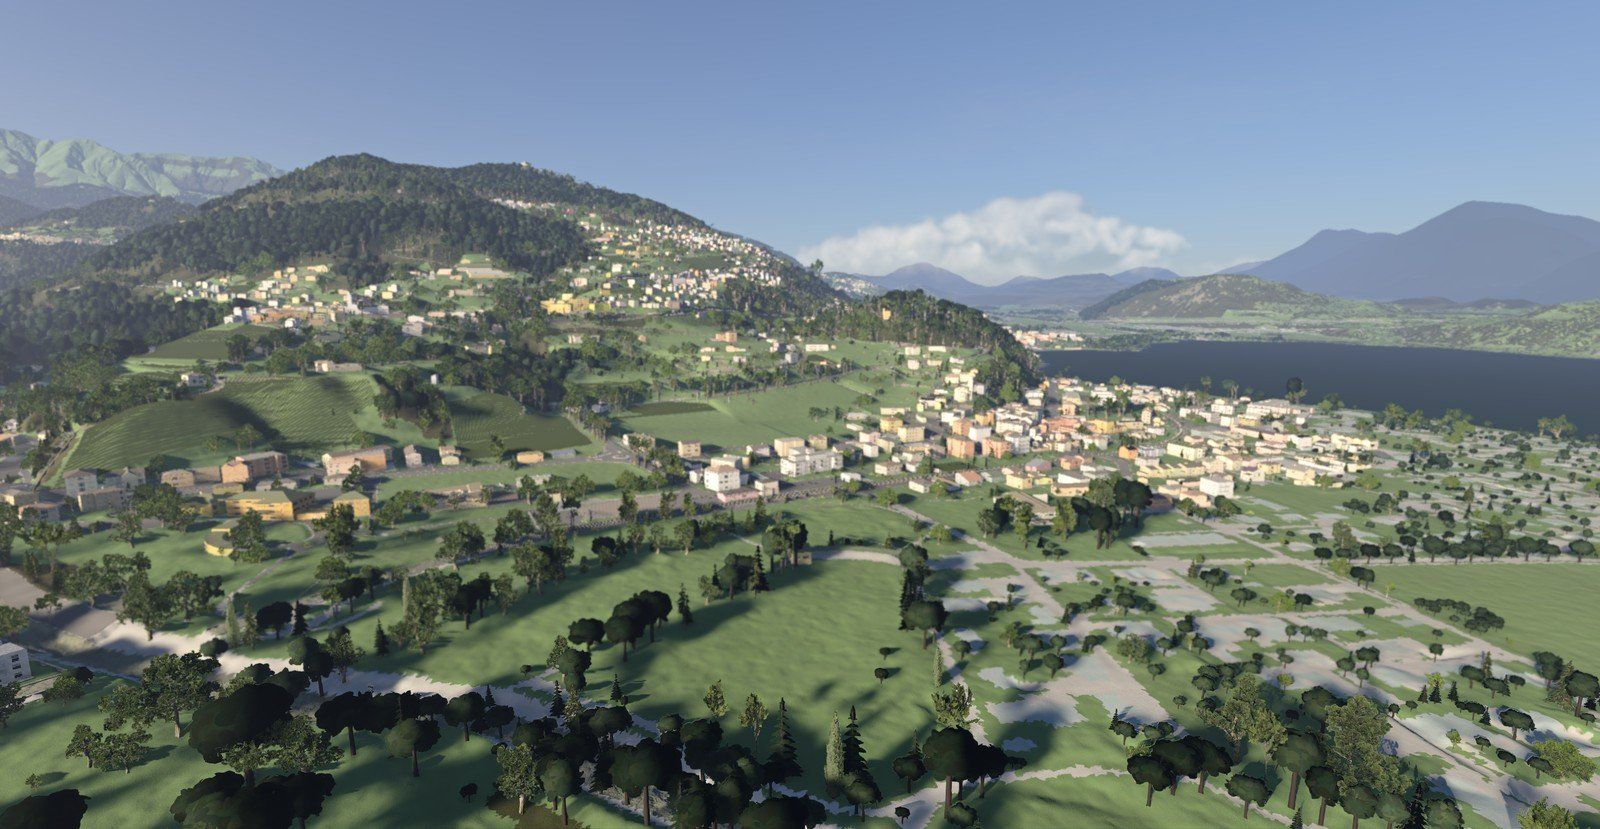
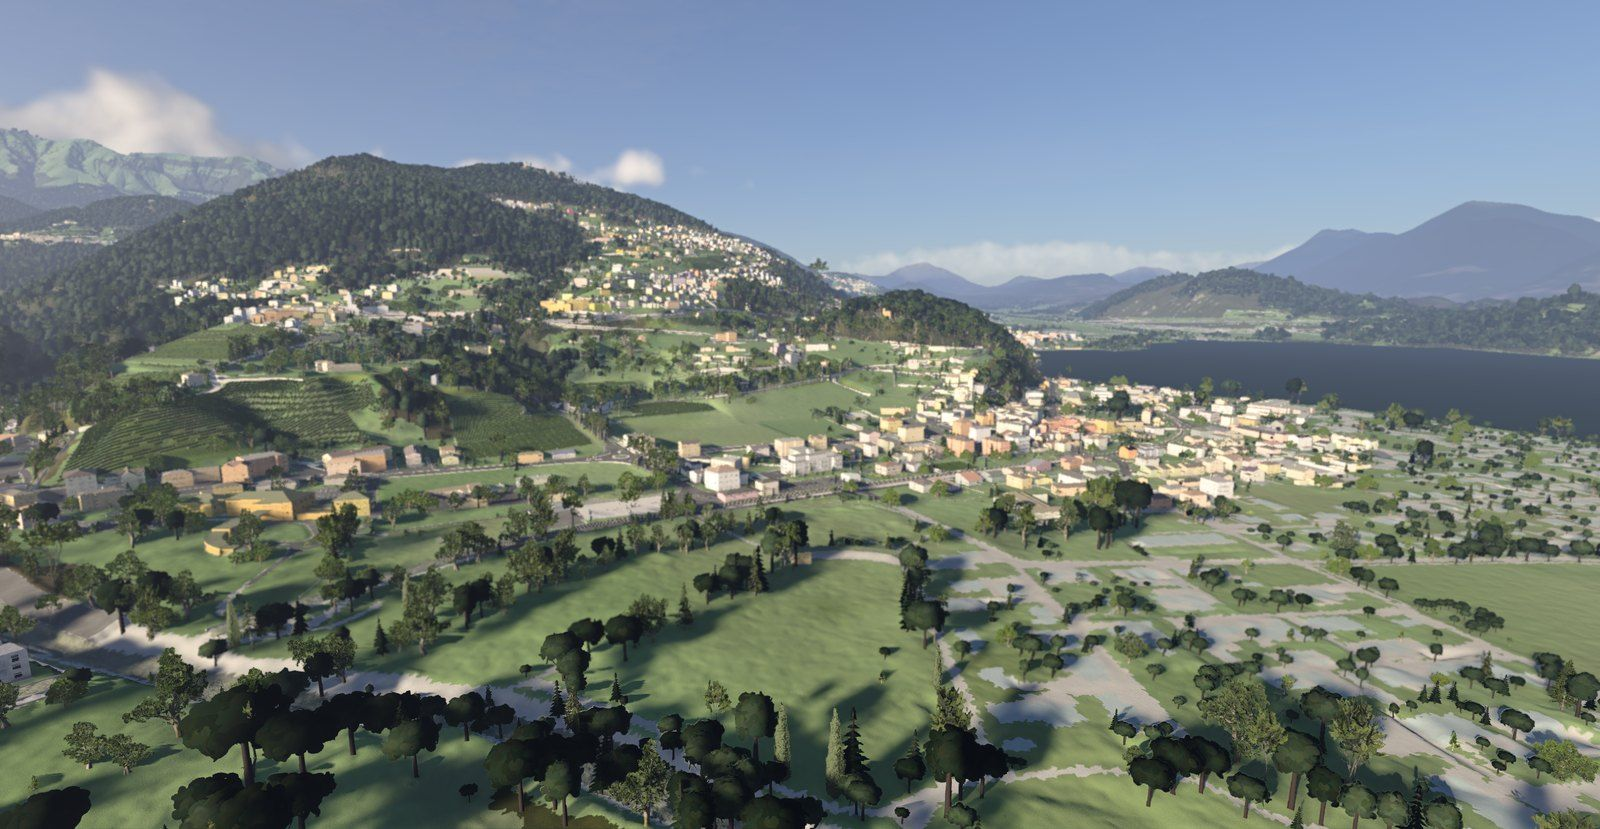
Website: v3.0 with its in-game screenshots
Download button and install steps for magliaso_pura_v3.0.zip (1.04 GB), a
New in v3.0 section, updated numbers (trees, villages, markings), memory and
frame rate from the v3.0 in-game test, and a gallery of the 24 v3.0
screenshots (make_images.py now copies those; the older pictures are gone).

Claude-Session: https://claude.ai/code/session_019WKaQKZ9bSLiQmuum6BCvJ

diff --git a/web/index.html b/web/index.html
@@ -7,7 +7,7 @@
 <meta name="description" content="A free BeamNG.drive map of 56 km² of the Malcantone, Canton Ticino: every real road, trail and building between Lake Lugano and the Italian border, built from Swiss survey data.">
 <meta property="og:title" content="Malcantone for BeamNG.drive">
 <meta property="og:description" content="56 km² of Canton Ticino at 1:1, built from swisstopo data. Free download.">
-<meta property="og:image" content="https://wintrymichi.ch/img/overview-novaggio-miglieglia-malcantone.jpg">
+<meta property="og:image" content="https://wintrymichi.ch/img/overview-novaggio-miglieglia.jpg">
 <meta property="og:url" content="https://wintrymichi.ch/">
 <link rel="canonical" href="https://wintrymichi.ch/">
 <link rel="preconnect" href="https://fonts.googleapis.com">
@@ -21,6 +21,7 @@
 <header class="bar">
   <a class="mark" href="#top">Malcantone <span>for BeamNG.drive</span></a>
   <nav>
+    <a href="#new">New in v3.0</a>
     <a href="#map">Map</a>
     <a href="#drives">Drives</a>
     <a href="#gallery">Pictures</a>
@@ -32,16 +33,36 @@
 <main id="top">
 
 <section class="hero">
-  <img src="img/overview-novaggio-miglieglia-malcantone.jpg" alt="In game: Novaggio, Miglieglia and the Alto Malcantone from the air" fetchpriority="high">
+  <img src="img/overview-novaggio-miglieglia.jpg" alt="In game: Novaggio, Miglieglia and the Alto Malcantone from the air" fetchpriority="high">
   <div class="hero-text">
     <h1>Every road in the Malcantone, at 1:1.</h1>
     <p>A free map for BeamNG.drive: 56 km² of Canton Ticino between Lake Lugano and the Italian border. Built from Swiss survey data, not modelled by hand.</p>
     <div class="actions">
-      <a class="btn primary" href="https://github.com/wintrymichi/magliasinaNG/releases/latest">Download v2.8 <small>zip, 514 MB</small></a>
+      <a class="btn primary" href="https://github.com/wintrymichi/magliasinaNG/releases/latest">Download v3.0 <small>zip, 1.04 GB</small></a>
       <a class="btn" href="https://github.com/wintrymichi/magliasinaNG">Source on GitHub</a>
     </div>
   </div>
-  <p class="hero-cap">Novaggio, Miglieglia and the Alto Malcantone. In-game screenshot of v2.8, BeamNG.drive 0.39.</p>
+  <p class="hero-cap">Novaggio, Miglieglia and the Alto Malcantone. In-game screenshot of v3.0, BeamNG.drive 0.39.4.</p>
+</section>
+
+<section id="new" class="making wrap">
+  <h2>New in v3.0</h2>
+  <div class="cols">
+    <div class="intro">
+      <p>Same area, roads and buildings as v2.8, polished up close and from afar. It now uses the game's own materials, and the villages are lived in.</p>
+      <p class="note">Released 17 October 2026 and tested in the game: about 80 s to load with a warm cache, 10.3 GB of memory at its peak, 65 to 138 fps at 13 fixed places at 2560 × 1440, Ultra, on an RTX 4070.</p>
+    </div>
+    <div class="steps">
+      <p><strong>Trees, not shrubs.</strong> Every tree takes the model closest to its real height, and the woods outside the survey are planted from ESA WorldCover: about 330,000 more trees, so the mountains around are forest up to the top.</p>
+      <p><strong>The game's own look.</strong> Asphalt, walls, parapets and cobbles from the game's Italy level, with tyre tracks in every lane, patches, cracked stretches and dusty edges. The ground takes its colour from the aerial photo.</p>
+      <p><strong>Smooth curves.</strong> Roads, pavements and walls follow curves instead of straight pieces, and steep banks are a smooth skin over the terrain.</p>
+      <p><strong>Petrol stations you can use.</strong> 8 stations with canopy, pumps and price totem, registered as the game's gas stations: stop at a pump and refuel.</p>
+      <p><strong>Parked cars.</strong> 11,069 parking spots with white Swiss bays, where the game's traffic puts its parked cars.</p>
+      <p><strong>Villages lived in.</strong> Shop fronts with signs and awnings, bus shelters, about 13,000 props of street life, flower boxes and woodpiles, vines on their wires in 475 vineyards.</p>
+      <p><strong>Swiss road paint.</strong> Markings laid by the Swiss standard from the road geometry, give-way lines at every roundabout, raised traffic islands and direction signs at the exits.</p>
+    </div>
+  </div>
+  <p class="more"><a href="https://github.com/wintrymichi/magliasinaNG/blob/main/beamng/RELEASE_v3.0.md">Full release notes</a> · <a href="https://github.com/wintrymichi/magliasinaNG/blob/main/beamng/verifica/v3.0/ingame_test_report.md">In-game test</a></p>
 </section>
 
 <section id="map" class="map-sec wrap">
@@ -55,9 +76,10 @@
       <div><dt>Roads</dt><dd>228 km, 167 bridges</dd></div>
       <div><dt>Trails and tracks</dt><dd>337 km</dd></div>
       <div><dt>Buildings</dt><dd>12,792</dd></div>
-      <div><dt>Trees</dt><dd>161,000 near the roads, 201,634 on far slopes</dd></div>
+      <div><dt>Trees</dt><dd>161,000 near the roads, about 530,000 on far slopes and the mountains around</dd></div>
       <div><dt>Road signs</dt><dd>286 Swiss signs, plus STOP and give-way</dd></div>
-      <div><dt>Markings</dt><dd>4,240 strips, 62.7 km</dd></div>
+      <div><dt>Markings</dt><dd>Swiss standard, laid from the road geometry</dd></div>
+      <div><dt>Villages</dt><dd>8 petrol stations, 11,069 parking spots, 40 more bus shelters, about 13,000 props</dd></div>
       <div><dt>Spawn points</dt><dd>30, one in every village</dd></div>
     </dl>
   </div>
@@ -85,7 +107,7 @@
     </li>
     <li>
       <span class="plate">Novaggio <b>9.6 km</b></span>
-      <div><h3>The Alto Malcantone loop</h3><p>New in v2.8: from Arosio over Mugena, Vezio, Fescoggia and Breno down to Miglieglia and Novaggio, then back down to the lake.</p></div>
+      <div><h3>The Alto Malcantone loop</h3><p>From Arosio over Mugena, Vezio, Fescoggia and Breno down to Miglieglia and Novaggio, then back down to the lake.</p></div>
     </li>
     <li>
       <span class="plate">Torrazza <b>2.7 km</b></span>
@@ -101,30 +123,33 @@
 <section id="gallery" class="gallery-sec">
   <div class="wrap">
     <h2>In the game</h2>
-    <p class="lede">All screenshots are taken in BeamNG.drive 0.39 with the released levels (v2.6, v2.7 and v2.8), no HUD, the game's own light and sky. Nothing here is a render or a mock-up.</p>
+    <p class="lede">All screenshots are taken in BeamNG.drive 0.39.4 with the released v3.0 level, no HUD, the game's own light and sky. Nothing here is a render or a mock-up.</p>
   </div>
   <div class="gallery wrap-wide">
-    <a class="g wide" href="img/driver-cantonale-magliaso-pura-1.jpg"><img src="img/driver-cantonale-magliaso-pura-1.jpg" alt="Driver's view on the cantonal road with the guard rail" loading="lazy"><span>v2.8: from the driver's seat on the cantonal road</span></a>
-    <a class="g" href="img/chase-cantonale-near-pura.jpg"><img src="img/chase-cantonale-near-pura_s.jpg" alt="Rally car on the cantonal road near Pura beside the guard rail" loading="lazy"><span>v2.8: the cantonal road near Pura</span></a>
-    <a class="g" href="img/driver-miglieglia-novaggio-stone-wall.jpg"><img src="img/driver-miglieglia-novaggio-stone-wall_s.jpg" alt="Driver's view on the road from Miglieglia to Novaggio" loading="lazy"><span>v2.8: Miglieglia to Novaggio, driver's view</span></a>
-    <a class="g" href="img/chase-breno-hairpin-valley-view.jpg"><img src="img/chase-breno-hairpin-valley-view_s.jpg" alt="Hairpin above Breno with a stone wall" loading="lazy"><span>v2.8: the hairpin above Breno</span></a>
-    <a class="g" href="img/chase-mugena-vezio-stone-wall.jpg"><img src="img/chase-mugena-vezio-stone-wall_s.jpg" alt="The road from Mugena to Vezio" loading="lazy"><span>v2.8: Mugena to Vezio</span></a>
-    <a class="g wide" href="img/14_passo_tornante.jpg"><img src="img/14_passo_tornante.jpg" alt="A hairpin on the pass above Gravesano, with guardrail and woods" loading="lazy"><span>The Penudria hairpins above Gravesano</span></a>
-    <a class="g wide" href="img/12_pura_cantonale.jpg"><img src="img/12_pura_cantonale.jpg" alt="The cantonal road towards Pura" loading="lazy"><span>The cantonal road towards Pura</span></a>
-    <a class="g" href="img/13_agno_via.jpg"><img src="img/13_agno_via_s.jpg" alt="A street in the old town of Agno" loading="lazy"><span>Agno, a street in the old town</span></a>
-    <a class="g" href="img/signs_cantonale_pointer.jpg"><img src="img/signs_cantonale_pointer_s.jpg" alt="Village sign for Curio at the top of the cantonal road" loading="lazy"><span>The Curio sign at the top of the cantonal road</span></a>
-    <a class="g" href="img/markings_crossing.jpg"><img src="img/markings_crossing_s.jpg" alt="Yellow Swiss pedestrian crossing and arrows" loading="lazy"><span>Swiss yellow crossings, redrawn from the 10 cm aerial photo</span></a>
-    <a class="g" href="img/signs_roundabout.jpg"><img src="img/signs_roundabout_s.jpg" alt="Roundabout sign above a give-way sign" loading="lazy"><span>Roundabout entry</span></a>
-    <a class="g wide" href="img/01_magliaso_lago.jpg"><img src="img/01_magliaso_lago.jpg" alt="Magliaso and the lake from above" loading="lazy"><span>Magliaso and Lake Lugano from the air</span></a>
-    <a class="g" href="img/unpaved_arosio.jpg"><img src="img/unpaved_arosio_s.jpg" alt="A dirt track above Arosio" loading="lazy"><span>Dirt track above Arosio</span></a>
-    <a class="g" href="img/signs_village50.jpg"><img src="img/signs_village50_s.jpg" alt="The 50 sign with the village name at the entry to Magliaso" loading="lazy"><span>Entering Magliaso</span></a>
-    <a class="g" href="img/09_passo_arosio.jpg"><img src="img/09_passo_arosio_s.jpg" alt="The Penudria pass from above" loading="lazy"><span>The Penudria from above</span></a>
-    <a class="g" href="img/10_caslano_torrazza.jpg"><img src="img/10_caslano_torrazza_s.jpg" alt="Caslano and the Monte Caslano along the lake" loading="lazy"><span>Caslano and Via Torrazza</span></a>
-    <a class="g" href="img/11_magliaso_strada.jpg"><img src="img/11_magliaso_strada_s.jpg" alt="A street in Magliaso" loading="lazy"><span>Magliaso, towards the old town</span></a>
-    <a class="g" href="img/unpaved_cademario.jpg"><img src="img/unpaved_cademario_s.jpg" alt="Gravel track at Cademario" loading="lazy"><span>Gravel at Cademario</span></a>
-    <a class="g wide" href="img/fartrees_gravesano_pass.jpg"><img src="img/fartrees_gravesano_pass.jpg" alt="The wooded pass above Gravesano seen from the village" loading="lazy"><span>Gravesano and the slopes of the pass</span></a>
-    <a class="g" href="img/05_ponte_tresa.jpg"><img src="img/05_ponte_tresa_s.jpg" alt="Ponte Tresa seen from across the border" loading="lazy"><span>Ponte Tresa from the Italian side</span></a>
-    <a class="g" href="img/markings_roundabout.jpg"><img src="img/markings_roundabout_s.jpg" alt="Markings on a roundabout" loading="lazy"><span>Roundabout markings</span></a>
+    <a class="g wide" href="img/cockpit-cantonale-guardrail.jpg"><img src="img/cockpit-cantonale-guardrail.jpg" alt="Driver's view on the cantonal road Magliaso to Pura, along the guard rail" loading="lazy"><span>From the driver's seat on the cantonal road to Pura</span></a>
+    <a class="g" href="img/chase-cantonale.jpg"><img src="img/chase-cantonale_s.jpg" alt="A car on the cantonal road, seen from behind" loading="lazy"><span>Behind the car on the cantonal road</span></a>
+    <a class="g" href="img/cockpit-penudria.jpg"><img src="img/cockpit-penudria_s.jpg" alt="Driver's view on the Penudria between a stone wall and the woods" loading="lazy"><span>The Penudria, Gravesano to Arosio</span></a>
+    <a class="g" href="img/cockpit-miglieglia-novaggio.jpg"><img src="img/cockpit-miglieglia-novaggio_s.jpg" alt="Driver's view on the road from Miglieglia to Novaggio" loading="lazy"><span>Miglieglia to Novaggio</span></a>
+    <a class="g" href="img/cockpit-agno-lakeside.jpg"><img src="img/cockpit-agno-lakeside_s.jpg" alt="Driver's view along the lake at Agno" loading="lazy"><span>Agno along the lake</span></a>
+    <a class="g wide" href="img/overview-magliaso-lake.jpg"><img src="img/overview-magliaso-lake.jpg" alt="Magliaso, the Magliasina and Lake Lugano from the air" loading="lazy"><span>Magliaso, the Magliasina and the lake</span></a>
+    <a class="g" href="img/new-eni-magliaso-paese.jpg"><img src="img/new-eni-magliaso-paese_s.jpg" alt="The petrol station of Magliaso Paese with canopy and pumps" loading="lazy"><span>The petrol station of Magliaso Paese (a parody brand)</span></a>
+    <a class="g" href="img/new-eni-and-parking-bays.jpg"><img src="img/new-eni-and-parking-bays_s.jpg" alt="White parking bays in front of the petrol station" loading="lazy"><span>White Swiss parking bays</span></a>
+    <a class="g" href="img/new-parking-bays-flp-magliaso.jpg"><img src="img/new-parking-bays-flp-magliaso_s.jpg" alt="The park and ride of the FLP station of Magliaso" loading="lazy"><span>The park and ride of the FLP station Magliaso</span></a>
+    <a class="g" href="img/new-wear-hairpin.jpg"><img src="img/new-wear-hairpin_s.jpg" alt="Tyre tracks through a hairpin of the cantonal road" loading="lazy"><span>Tyre tracks through the hairpin of the cantonal road</span></a>
+    <a class="g wide" href="img/overview-cantonale-hairpins.jpg"><img src="img/overview-cantonale-hairpins.jpg" alt="The hairpins of the cantonal road above Magliaso from the air" loading="lazy"><span>The hairpins of the cantonal road above Magliaso</span></a>
+    <a class="g" href="img/cockpit-roundabout-magliaso.jpg"><img src="img/cockpit-roundabout-magliaso_s.jpg" alt="Driver's view entering the roundabout of Magliaso" loading="lazy"><span>Into the roundabout of Magliaso</span></a>
+    <a class="g" href="img/cockpit-cantonale-stone-wall.jpg"><img src="img/cockpit-cantonale-stone-wall_s.jpg" alt="Driver's view halfway up the cantonal road beside a stone wall" loading="lazy"><span>Halfway up the cantonal road</span></a>
+    <a class="g" href="img/cockpit-novaggio-miglieglia.jpg"><img src="img/cockpit-novaggio-miglieglia_s.jpg" alt="Driver's view from Novaggio to Miglieglia with tyre tracks in the bend" loading="lazy"><span>Novaggio to Miglieglia</span></a>
+    <a class="g" href="img/cockpit-caslano.jpg"><img src="img/cockpit-caslano_s.jpg" alt="Driver's view in Caslano" loading="lazy"><span>Caslano</span></a>
+    <a class="g wide" href="img/overview-caslano-lake.jpg"><img src="img/overview-caslano-lake.jpg" alt="Caslano and the Torrazza on the lake from the air" loading="lazy"><span>Caslano and the Torrazza</span></a>
+    <a class="g" href="img/overview-pura.jpg"><img src="img/overview-pura_s.jpg" alt="Pura from the air" loading="lazy"><span>Pura</span></a>
+    <a class="g" href="img/overview-magliaso-paese.jpg"><img src="img/overview-magliaso-paese_s.jpg" alt="Magliaso Paese from the air" loading="lazy"><span>Magliaso Paese</span></a>
+    <a class="g" href="img/overview-agno-lake.jpg"><img src="img/overview-agno-lake_s.jpg" alt="Agno and the Vedeggio plain by the lake" loading="lazy"><span>Agno and the Vedeggio plain</span></a>
+    <a class="g" href="img/overview-ponte-tresa.jpg"><img src="img/overview-ponte-tresa_s.jpg" alt="Ponte Tresa and the border bridge from the air" loading="lazy"><span>Ponte Tresa and the border bridge</span></a>
+    <a class="g" href="img/overview-novaggio-miglieglia.jpg"><img src="img/overview-novaggio-miglieglia_s.jpg" alt="Novaggio, Miglieglia and the Alto Malcantone from the air" loading="lazy"><span>Novaggio, Miglieglia and the Alto Malcantone</span></a>
+    <a class="g" href="img/cockpit-cantonale-down-to-magliaso.jpg"><img src="img/cockpit-cantonale-down-to-magliaso_s.jpg" alt="Driver's view down the cantonal road towards Magliaso" loading="lazy"><span>Down the cantonal road to Magliaso</span></a>
+    <a class="g" href="img/new-wear-hairpin-2.jpg"><img src="img/new-wear-hairpin-2_s.jpg" alt="The same hairpin of the cantonal road from the valley side" loading="lazy"><span>The hairpin from the valley side</span></a>
+    <a class="g" href="img/cockpit-roundabout-magliaso-2.jpg"><img src="img/cockpit-roundabout-magliaso-2_s.jpg" alt="Driver's view in the roundabout of Magliaso, the other way" loading="lazy"><span>The roundabout of Magliaso, the other way</span></a>
   </div>
   <p class="wrap more"><a href="https://github.com/wintrymichi/magliasinaNG/tree/main/beamng/verifica/screenshots">More screenshots in the repository</a></p>
 </section>
@@ -152,7 +177,7 @@
   <p class="lede">Each limit has an open issue with the places and the possible fix.</p>
   <table>
     <tbody>
-      <tr><td>Under Windows with DirectX 12 the game needs about 12 GB of RAM at its peak (6.4 GB in the v2.8 test on native Linux). On a 16 GB PC with a browser open it can stall after loading: start the game with DirectX 11.</td><td><a href="https://github.com/wintrymichi/magliasinaNG/issues/31">#31</a></td></tr>
+      <tr><td>v3.0 is a bit heavier than v2.8: 10.3 GB of memory at its peak in the test on native Linux (v2.8: 6.4 GB), more under Windows with DirectX 12. On a 16 GB PC with a browser open it can stall after loading: close other programs and start the game with DirectX 11.</td><td><a href="https://github.com/wintrymichi/magliasinaNG/issues/31">#31</a></td></tr>
       <tr><td>On the Italian side there is only terrain: no roads or buildings past the Ponte Tresa bridge.</td><td><a href="https://github.com/wintrymichi/magliasinaNG/issues/18">#18</a></td></tr>
       <tr><td>Tunnels are not built. Roads and the railway stop at the portals.</td><td><a href="https://github.com/wintrymichi/magliasinaNG/issues/19">#19</a></td></tr>
       <tr><td>Windows, balconies and doors are plausible, not copied house by house.</td><td><a href="https://github.com/wintrymichi/magliasinaNG/issues/11">#11</a></td></tr>
@@ -168,17 +193,17 @@
     <div>
       <h2>Install</h2>
       <ol>
-        <li>Download <code>magliaso_pura_v2.8.zip</code> from the <a href="https://github.com/wintrymichi/magliasinaNG/releases/latest">latest release</a>.</li>
+        <li>Download <code>magliaso_pura_v3.0.zip</code> from the <a href="https://github.com/wintrymichi/magliasinaNG/releases/latest">latest release</a>.</li>
         <li>Copy the zip, still zipped, to <code>Documents/BeamNG.drive/current/mods/</code>.</li>
-        <li>Remove any older <code>magliaso_pura_v2.x.zip</code> from the same folder. All versions share one level name and conflict.</li>
+        <li>Remove any older <code>magliaso_pura_v*.zip</code> from the same folder. All versions share one level name and conflict.</li>
         <li>In the game choose Freeroam, then <em>Malcantone - Magliaso, Pura e dintorni</em>.</li>
       </ol>
     </div>
     <div class="req">
       <h3>What you need</h3>
-      <p>BeamNG.drive 0.39 and 16 GB of RAM. On an RTX 4070 v2.8 loaded in about 130 s with 6.4 GB of memory at its peak; v2.7 ran at 74 to 131 fps at the test views at 2560 × 1440.</p>
-      <p>The first load takes about two and a half minutes while the game converts shapes and trees. After that, about 70 seconds.</p>
-      <a class="btn primary" href="https://github.com/wintrymichi/magliasinaNG/releases/latest">Download v2.8 <small>zip, 514 MB</small></a>
+      <p>BeamNG.drive 0.39 and 16 GB of RAM. On an RTX 4070 v3.0 loaded in about 80 s with 10.3 GB of memory at its peak, and ran at 65 to 138 fps at 13 test places at 2560 × 1440, Ultra (95 on average).</p>
+      <p>The first load is the slowest, while the game converts shapes and trees and keeps them in its cache. For the parked cars, turn on parked vehicles in the game's traffic settings.</p>
+      <a class="btn primary" href="https://github.com/wintrymichi/magliasinaNG/releases/latest">Download v3.0 <small>zip, 1.04 GB</small></a>
     </div>
   </div>
 </section>
@@ -187,7 +212,7 @@
 
 <footer class="wrap foot">
   <p><strong>Data:</strong> © swisstopo (swissALTI3D, swissSURFACE3D, SWISSIMAGE, swissBUILDINGS3D, swissTLM3D, swissNAMES3D); official survey of Canton Ticino; Federal Register of Buildings and Dwellings; © OpenStreetMap contributors (ODbL); Copernicus DEM GLO-30.</p>
-  <p>A fan project by <a href="https://github.com/wintrymichi">wintrymichi</a>, not affiliated with BeamNG GmbH. Free for non-commercial use (<a href="https://github.com/wintrymichi/magliasinaNG/blob/main/LICENSE">CC BY-NC 4.0</a>); for commercial use write to <a href="mailto:info@wintrymichi.ch">info@wintrymichi.ch</a>. Version 2.8, released 10 October 2026. <a href="https://github.com/wintrymichi/magliasinaNG/blob/main/CHANGELOG.md">Changelog</a></p>
+  <p>A fan project by <a href="https://github.com/wintrymichi">wintrymichi</a>, not affiliated with BeamNG GmbH. Free for non-commercial use (<a href="https://github.com/wintrymichi/magliasinaNG/blob/main/LICENSE">CC BY-NC 4.0</a>); for commercial use write to <a href="mailto:info@wintrymichi.ch">info@wintrymichi.ch</a>. Version 3.0, released 17 October 2026. <a href="https://github.com/wintrymichi/magliasinaNG/blob/main/CHANGELOG.md">Changelog</a></p>
 </footer>
 
 <dialog id="viewer">

diff --git a/web/tools/make_images.py b/web/tools/make_images.py
@@ -9,17 +9,14 @@ from PIL import Image
 ROOT = os.path.dirname(os.path.dirname(os.path.dirname(os.path.abspath(__file__))))
 SRC = os.path.join(ROOT, "beamng", "verifica", "screenshots")
 OUT = os.path.join(ROOT, "web", "img")
-FILES = [
-    "v2.8/driver-cantonale-magliaso-pura-1.jpg", "v2.8/driver-miglieglia-novaggio-stone-wall.jpg",
-    "v2.8/chase-cantonale-near-pura.jpg", "v2.8/chase-breno-hairpin-valley-view.jpg", "v2.8/chase-mugena-vezio-stone-wall.jpg",
-    "v2.8/overview-novaggio-miglieglia-malcantone.jpg", "v2.8/overview-magliaso-lake.jpg",
-    "14_passo_tornante.jpg", "12_pura_cantonale.jpg", "13_agno_via.jpg", "11_magliaso_strada.jpg",
-    "01_magliaso_lago.jpg", "05_ponte_tresa.jpg", "09_passo_arosio.jpg", "10_caslano_torrazza.jpg",
-    "02_agno_nucleo.jpg", "03_cademario.jpg", "08_sessa.jpg",
-    "v2.7/signs_roundabout.jpg", "v2.7/signs_cantonale_pointer.jpg", "v2.7/markings_crossing.jpg",
-    "v2.7/signs_village50.jpg", "v2.7/unpaved_arosio.jpg", "v2.7/unpaved_cademario.jpg",
-    "v2.7/fartrees_gravesano_pass.jpg", "v2.7/markings_roundabout.jpg",
-]
+FILES = ["v3.0/" + f + ".jpg" for f in [
+    "overview-novaggio-miglieglia", "cockpit-cantonale-guardrail", "chase-cantonale", "cockpit-penudria",
+    "cockpit-miglieglia-novaggio", "cockpit-agno-lakeside", "overview-magliaso-lake", "new-eni-magliaso-paese",
+    "new-eni-and-parking-bays", "new-parking-bays-flp-magliaso", "new-wear-hairpin", "overview-cantonale-hairpins",
+    "cockpit-roundabout-magliaso", "cockpit-cantonale-stone-wall", "cockpit-novaggio-miglieglia", "cockpit-caslano",
+    "overview-caslano-lake", "overview-pura", "overview-magliaso-paese", "overview-agno-lake", "overview-ponte-tresa",
+    "cockpit-cantonale-down-to-magliaso", "new-wear-hairpin-2", "cockpit-roundabout-magliaso-2",
+]]
 
 
 def save(im, path, width):
